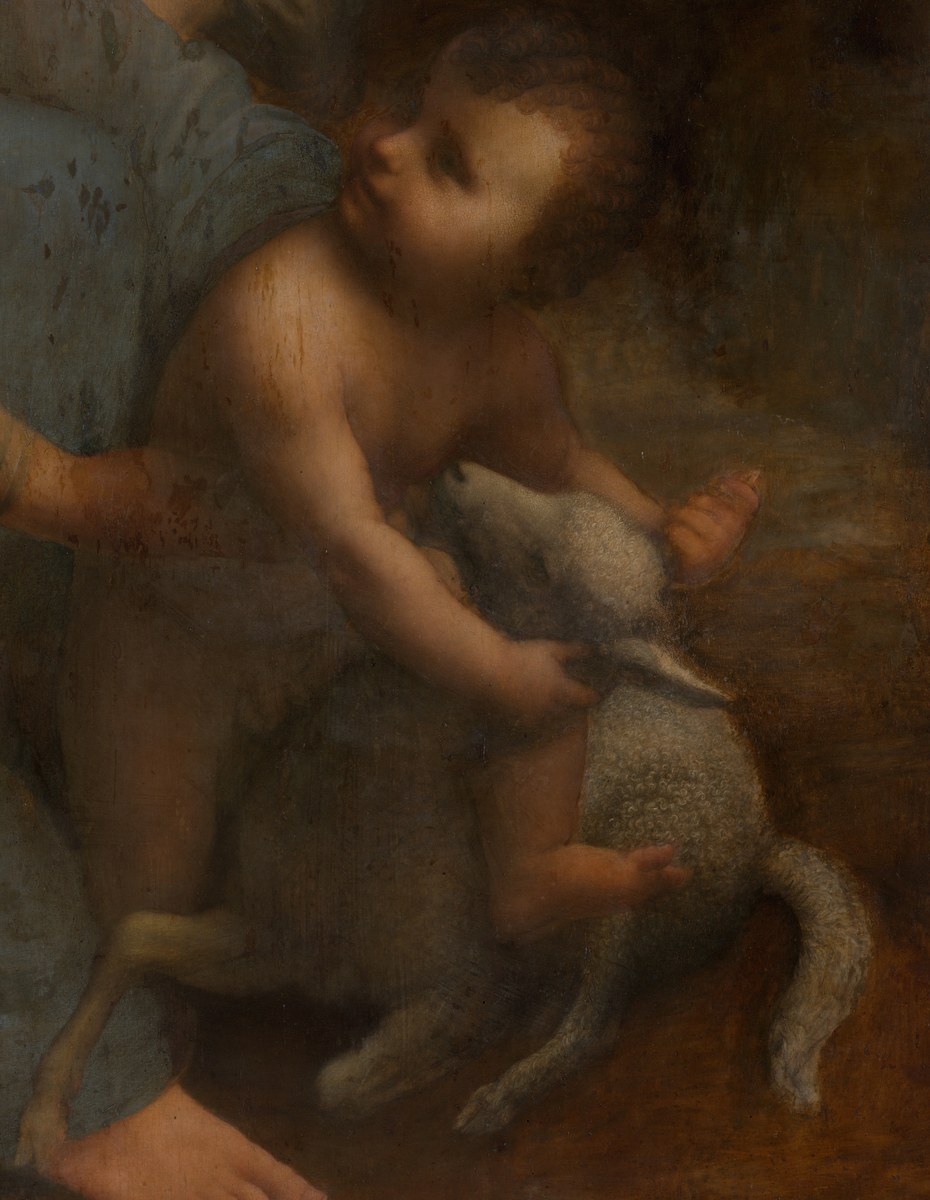
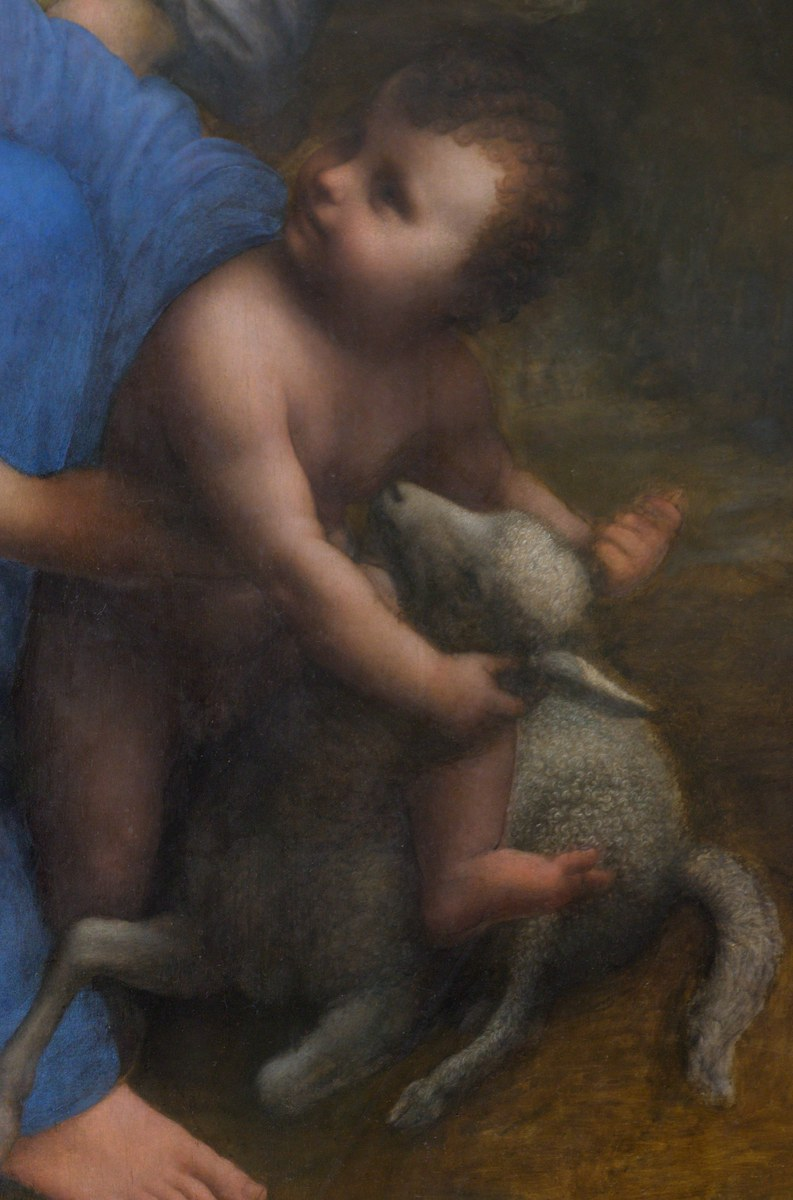
Chapter 09 fixes: post-cleaning Saint Anne photo, two close-up wordings
- Saint Anne: the app photo, the close-up overview and crops c1-c3 now
  come from Wilfredor's CC0 photo on Wikimedia Commons ("The Virgin and
  Child with Saint Anne by Leonardo da Vinci, Louvre.jpg", 7716 x 11375,
  taken 29 Jan 2024, after the 2011 cleaning), replacing the pre-cleaning
  C2RMF scan. Boxes re-measured on the new photo; every crop checked by
  eye at full size. imageCredit, zoomImage, image-sources.ts and
  content/README.md updated.
- The Virgin of the Rocks close-up c2: "above these heads" becomes
  "above her head" (the crop shows only Mary's head); the right option,
  the right branch and the cross correction follow.
- Saint Anne close-up c2: drop "to shoulder" (the red puffed sleeve
  covers the shoulder) from the label, intro and merge line.

Claude-Session: https://claude.ai/code/session_01BLGpab2r6jFqUQTKxQiUs4

diff --git a/src/lib/image-sources.ts b/src/lib/image-sources.ts
@@ -1,6 +1,7 @@
 // Where each artwork photo in public/images/ comes from: its Wikimedia
 // Commons file page, where the author and licence can be checked. Paintings
-// are faithful public-domain reproductions; the sculpture photos are CC0.
+// are faithful public-domain reproductions, except The Virgin and Child with
+// Saint Anne, a CC0 photo (Wilfredor, 2024); the sculpture photos are CC0.
 // Files were downloaded at about 2000 px on the long edge and only resized
 // or recompressed to stay light on phones (no crops, no filters).
 //
@@ -20,5 +21,5 @@ export const IMAGE_SOURCE: Record<string, string> = {
   "virgin-of-the-rocks":
     "https://commons.wikimedia.org/wiki/File:Leonardo_Da_Vinci_-_Vergine_delle_Rocce_(Louvre).jpg",
   "virgin-and-child-with-saint-anne":
-    "https://commons.wikimedia.org/wiki/File:La_Vierge,_l%27Enfant_J%C3%A9sus_et_sainte_Anne,_by_Leonardo_da_Vinci,_from_C2RMF.jpg",
+    "https://commons.wikimedia.org/wiki/File:The_Virgin_and_Child_with_Saint_Anne_by_Leonardo_da_Vinci,_Louvre.jpg",
 };

diff --git a/content/README.md b/content/README.md
@@ -11,3 +11,4 @@ Five level files built from the playbook doc (https://claude.ai/code/artifact/ff
 - 2026-10-13 (0.6 catalogue): `content/modules.json`, the catalogue in the PRODUCT.md "Catalogue file" format: 3 wings, 15 modules and the "Beyond the 15" appendix, 100 works (93 + 7). Generated once from the project files `catalogue/modules.csv` (verified rows only; `catalogue/module-candidates.csv` is not used) with each off-view work's `displayNote` taken from `catalogue/top-100.csv`; edit this file by hand from now on. Work ids are slugs of the English title without a leading "the"; the five works with a level keep their level file's `artwork.id` and link it with `levelId`. Works are in module order (on view by room number, then on view without a room number, then not on view), so The Disembarkation of Marie de' Medici (room 801, Galerie Médicis closed) is listed last in module 12, not first as in the CSV. Module 11, Spanish Painting, has no works and status `rooms-closed`. `npm run check-content` checks the file and prints its counts. No page reads it yet.
 - 2026-10-13 (label sheet): every work in `content/modules.json` gained `medium` (the record's materials and technique, in English) and, where the record gives one, `titleFr` (the record's own French title), taken from `catalogue/top-100.csv`. The five works with a level use their level file's `artwork.medium`. 27 rows across all departments were spot-checked against their collections.louvre.fr records (louvre.fr's Gallery of Five Continents page for the three works without one); five media and two French titles were corrected to the records' wording (Jewel Coffer of Louis XIV, Crown of Louis XV, Eleanor of Aquitaine's Vase, Portrait of Isabella d'Este, Marquise de Pompadour; the Lamassu relief, Hunts of Maximilian: December, and the full Tomb of Philippe Pot title). The three Gallery of Five Continents works have no French record, so they carry no `titleFr`. A medium the records don't confirm is written "TBD".
 - 2026-10-14 (Chapter 09 batch 1 photos and close-ups): `06-virgin-of-the-rocks.json` and `07-virgin-and-child-with-saint-anne.json` got their photos and their close-up rounds in `content/challenge/`. Photos and crops come from Wikimedia Commons files checked as Public Domain: The Virgin of the Rocks from "Leonardo Da Vinci - Vergine delle Rocce (Louvre).jpg" (3460 × 5487, from gallerix.ru; no C2RMF scan of this panel is on Commons), Saint Anne from the C2RMF scan "La Vierge, l'Enfant Jésus et sainte Anne, by Leonardo da Vinci, from C2RMF.jpg" (13972 × 18032; the app photo trims the bare wood at the panel's edges). The C2RMF scan predates the 2011 cleaning. Every crop was checked by eye against its question.
+- 2026-10-14 (Chapter 09 fixes): Saint Anne's photo, overview and crops now come from Wilfredor's photo "The Virgin and Child with Saint Anne by Leonardo da Vinci, Louvre.jpg" on Wikimedia Commons (7716 × 11375, taken 29 Jan 2024, after the 2011 cleaning; own work, CC0, checked on its file page), replacing the pre-cleaning C2RMF scan. The app photo is the whole image, uncropped. The three close-up boxes were re-measured on the new photo and every crop was checked by eye at full size. Wording: The Virgin of the Rocks close-up c2 now asks about the space above Mary's head ("her head", "a thin gold halo"), since its crop shows only her head; Saint Anne close-up c2 no longer says "to shoulder", since the red puffed sleeve covers the shoulder.
